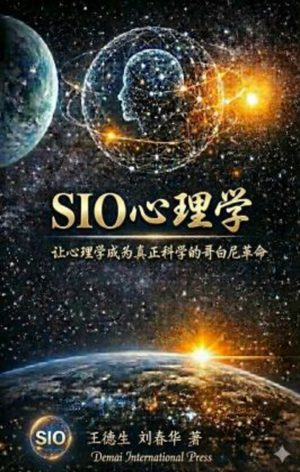
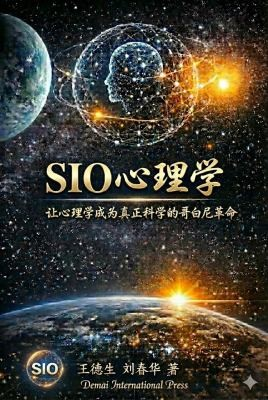
Complete book page id=16 《SIO心理学 / SIO Psychology》 per the Bowker record: replaced the cover with the newly provided official image (covers/16.jpg), and added the missing publication-card rows — Jan 2026 Paperback and USD $45.00. English subtitle and the verbatim official description were already in

diff --git a/public/books/m/16/index.html b/public/books/m/16/index.html
@@ -86,7 +86,9 @@ footer a{color:#D4B25E}
     <div class="pubcard">
       <div class="row"><span class="k">作者 Author</span><span class="v">Wang, Desheng; Liu, Chunhua</span></div>
       <div class="row"><span class="k">出版方</span><span class="v">德麦国际有限公司 · Demai International Pte. Ltd.</span></div>
+      <div class="row"><span class="k">出版日期</span><span class="v">2026 年 1 月 · Paperback</span></div>
       <div class="row"><span class="k">ISBN</span><span class="v">978-1-970820-09-6（Bowker authorId 26927366）</span></div>
+      <div class="row"><span class="k">定价</span><span class="v">USD $45.00</span></div>
       <div class="row"><span class="k">检索</span><span class="v"><a href="https://bookwire.bowker.com/" target="_blank" rel="noopener">Bowker / Bookwire</a> · 可按 ISBN 9781970820096 查询</span></div>
     </div>
 
